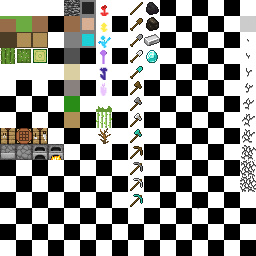
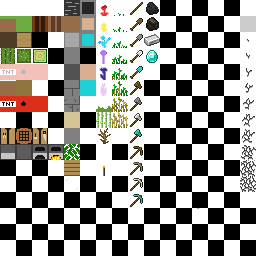
some work on clean atlas

diff --git a/Sources/inputs.cpp b/Sources/inputs.cpp
@@ -223,10 +223,6 @@ void OpenGL_Manager::chunk_update( void )
 	_mtx.unlock();
 
 	setThreadUpdate(true);
-	// if (_thread.joinable()) {
-	// 	_thread.join();
-	// }
-	// _thread = std::thread(thread_chunk_update, this, _render_distance, posX, posY);
 }
 
 float OpenGL_Manager::getBreakTime( bool canHarvest )
@@ -353,6 +349,7 @@ void OpenGL_Manager::user_inputs( float deltaTime, bool rayCast )
 	GLint mul = (glfwGetKey(_window, GLFW_KEY_RIGHT_BRACKET) == GLFW_PRESS) - (glfwGetKey(_window, GLFW_KEY_LEFT_BRACKET) == GLFW_PRESS);
 	if (mul && ++_key_time_mul == 1) {
 		DayCycle::Get()->updateTimeMultiplier(mul);
+		loadTextureShader(0, _textures[0], "Resources/cleanAtlas.png");
 	} else if (!mul) {
 		_key_time_mul = 0;
 	}

diff --git a/README.md b/README.md
@@ -8,6 +8,7 @@ $ make setup
 $ make
 $ make log
 ```
+make setup takes a while as it installs the needed [static libraries](#libraries), but you only need to do it once. Also, for now, it "fails" upon making the glew library, but the needed file is still created so go on after the error pops up.
 
 ## Goal
 Recreate [Minecraft](https://www.minecraft.net). That's it.
